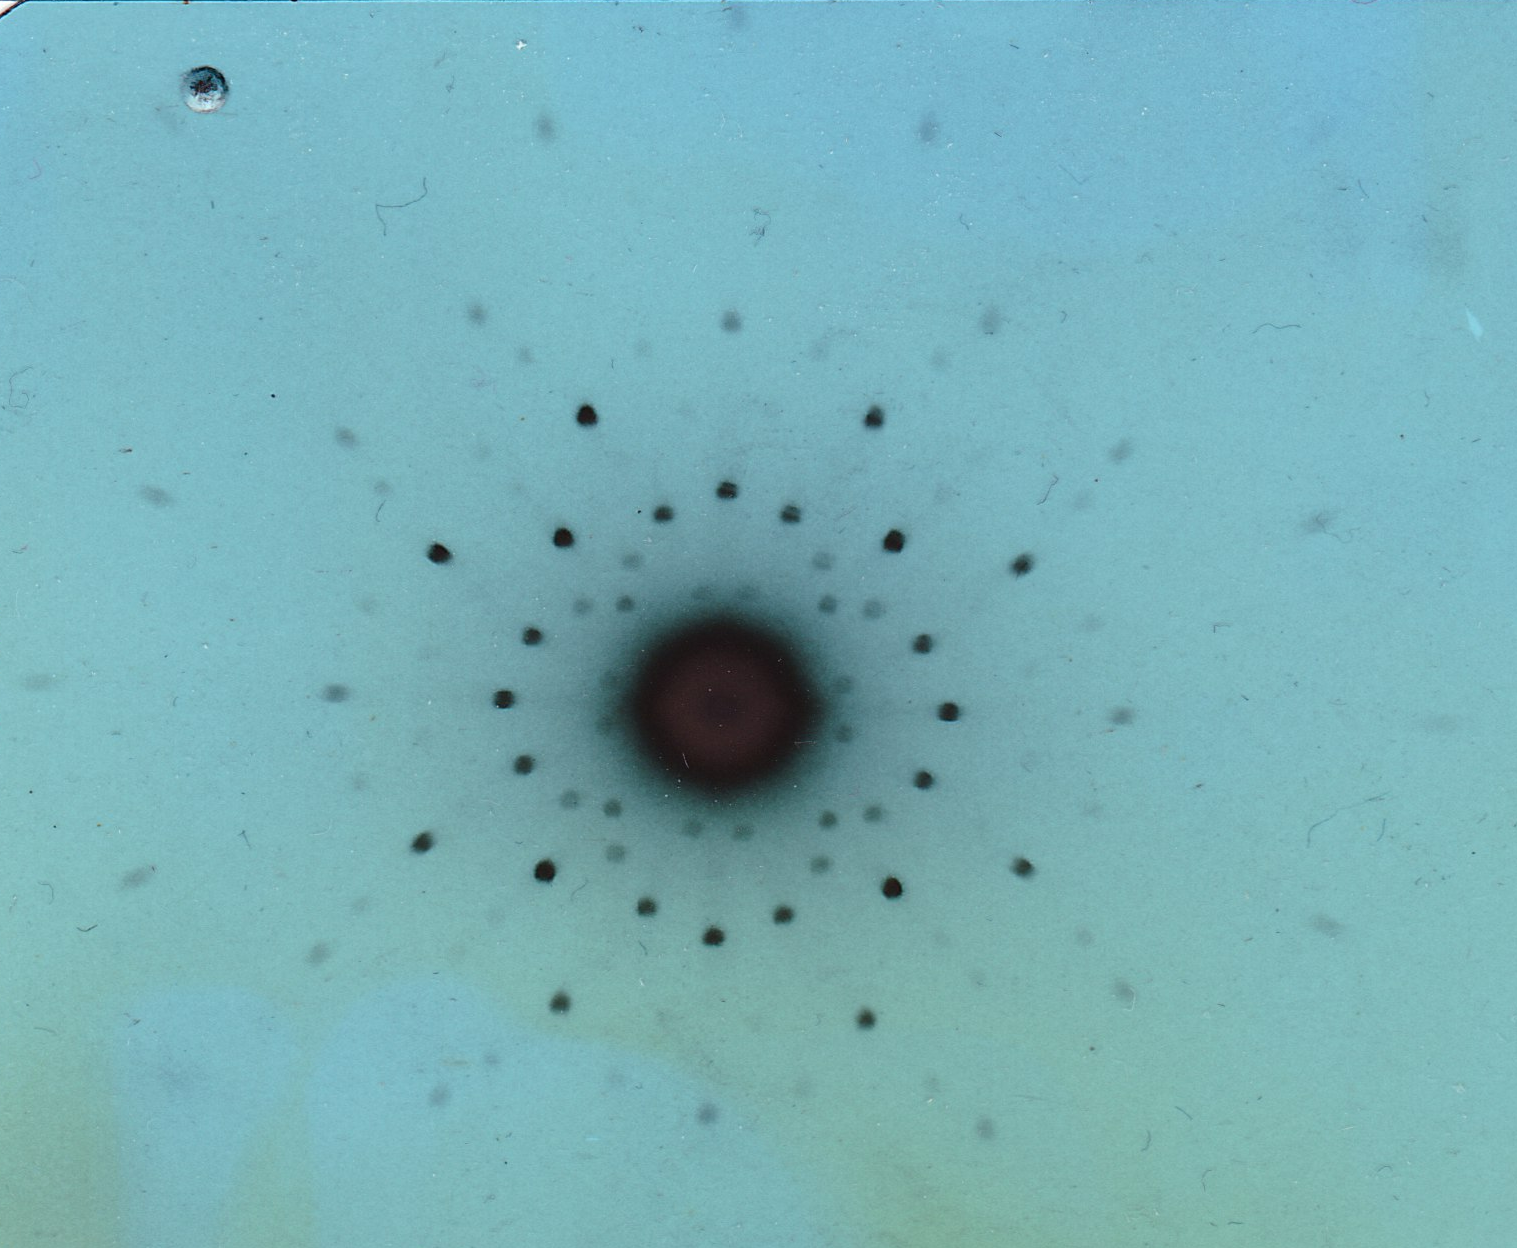
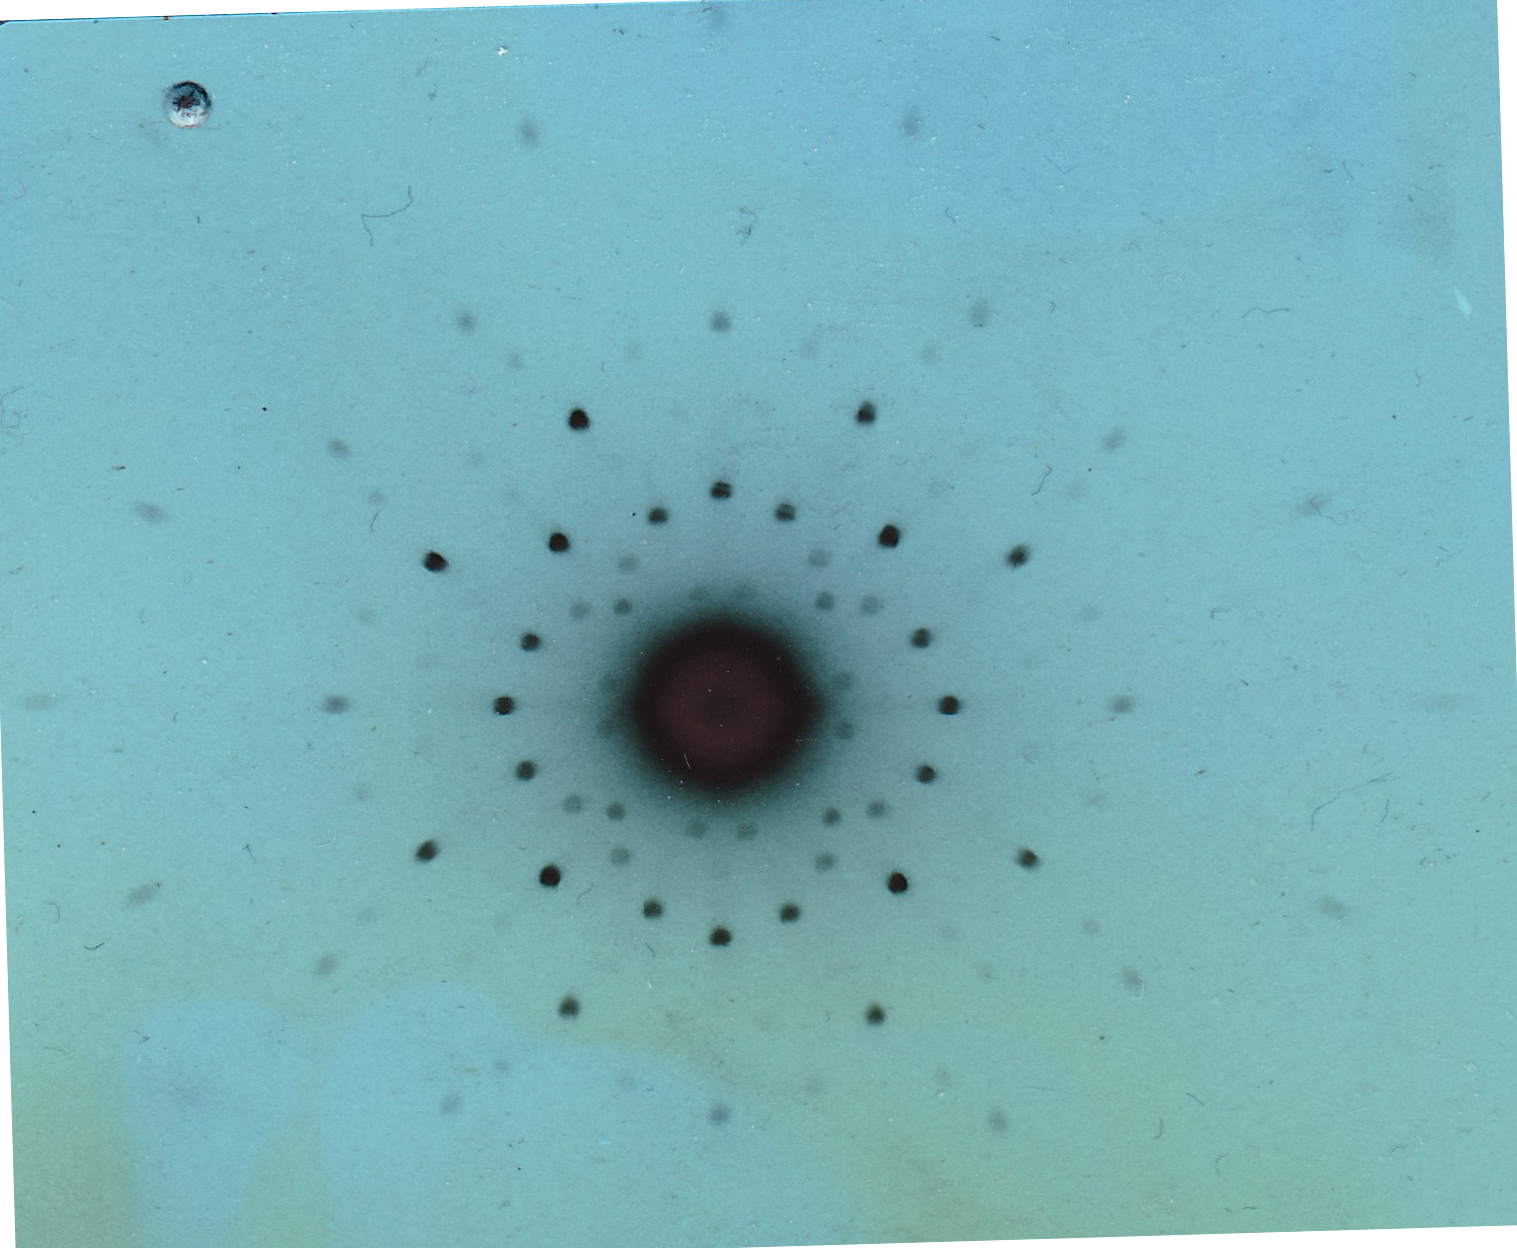
Plot beschnitten

diff --git a/428/Template.tex b/428/Template.tex
@@ -494,7 +494,7 @@ das Bild mit 600 DPI eingescannt worden ist, können wir $x$ und $y$ von Pixeln
 in Meter umwandeln. Zusammen mit $L = \SI{15}{\milli\meter}$ können wir dann
 $z$ berechnen:
 \[
-    z = \sqrt{x^2 + y^2 + l^2} - l
+    z = \sqrt{x^2 + y^2 + L^2} - L
 \]
 
 Wir bilden die beiden Verhältnisse
